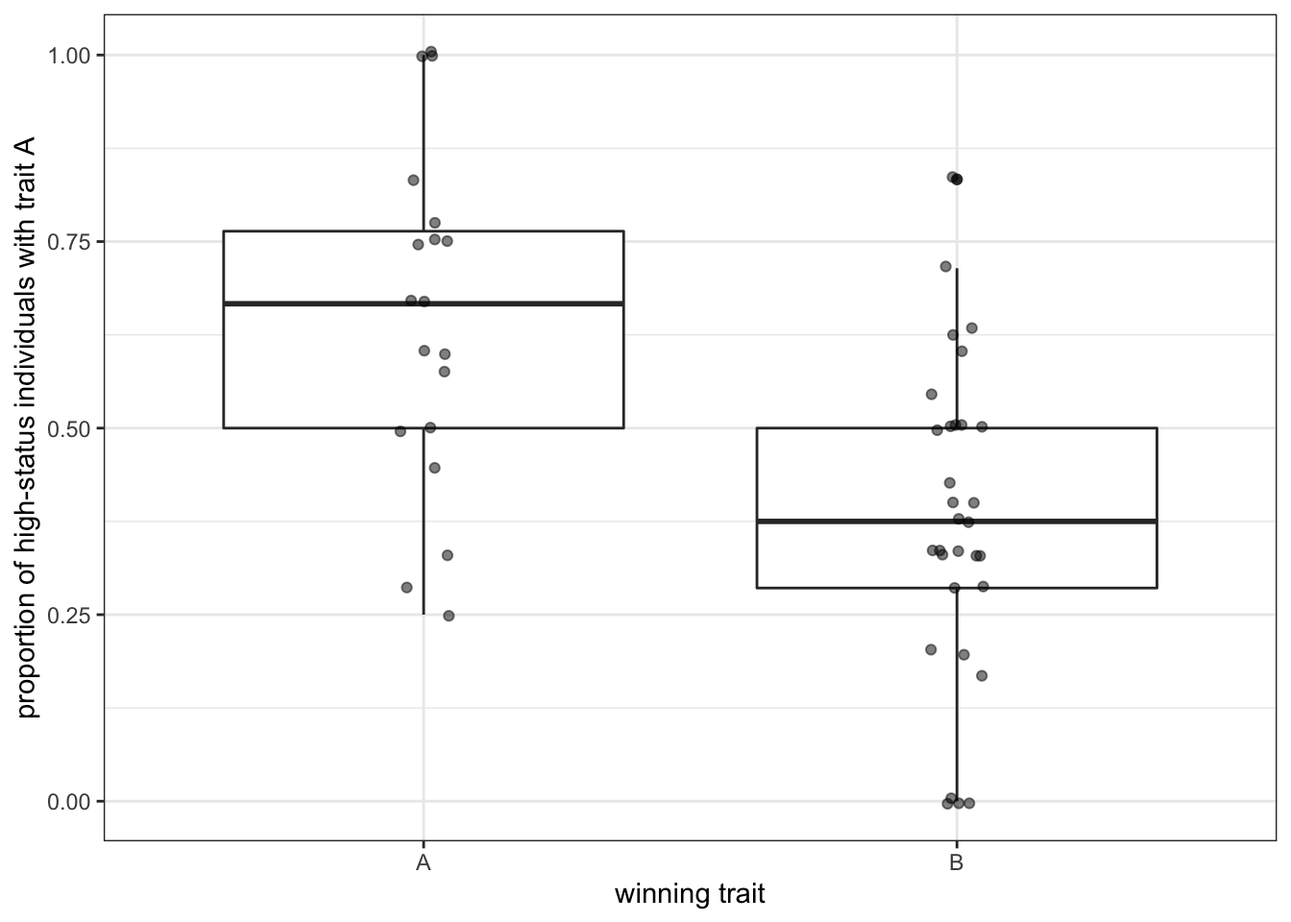
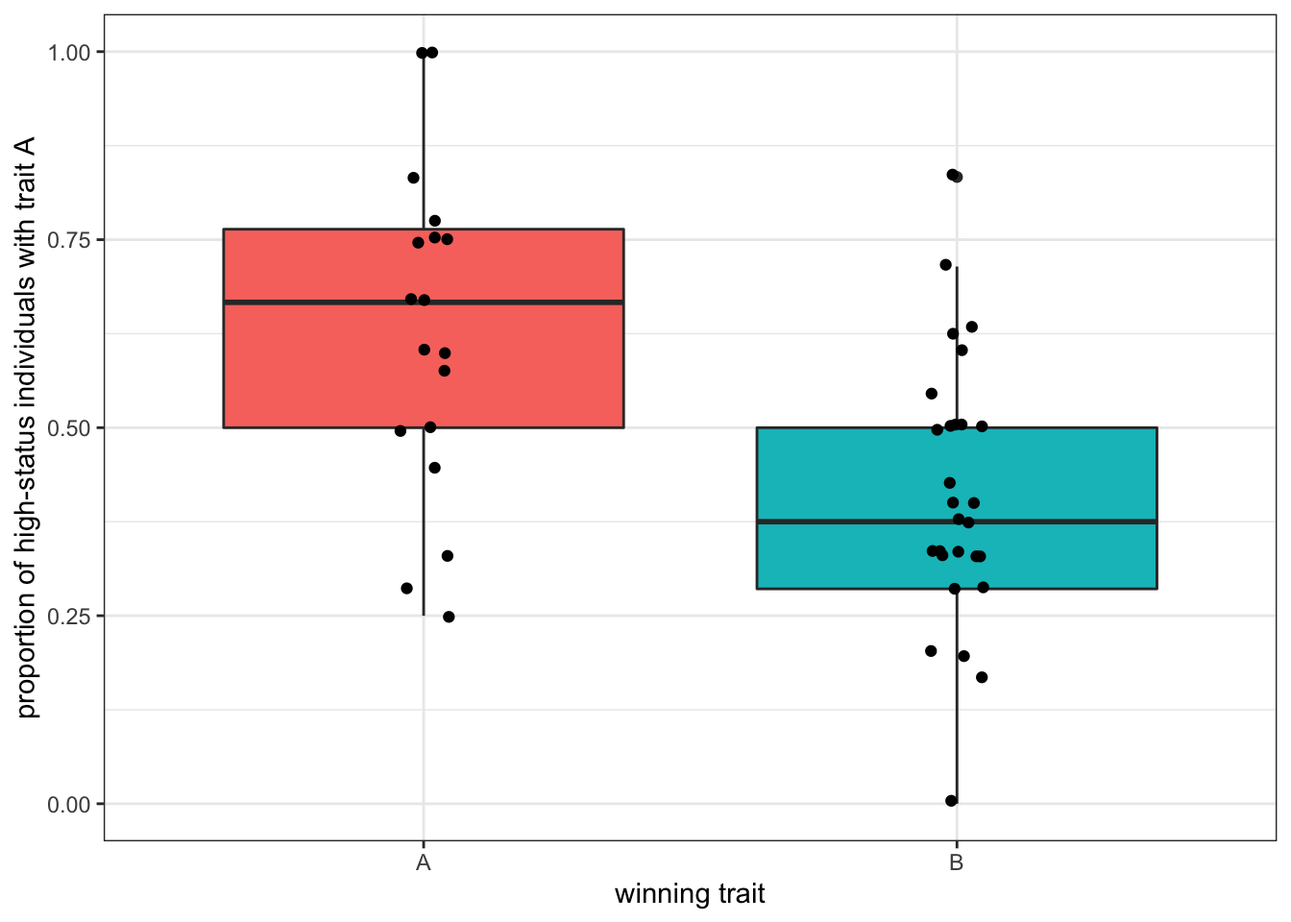
finsihed chapter 5

diff --git a/_book/biased-transmission-indirect-bias-demonstrator.html b/_book/biased-transmission-indirect-bias-demonstrator.html
@@ -4,11 +4,11 @@
 
   <meta charset="utf-8" />
   <meta http-equiv="X-UA-Compatible" content="IE=edge" />
-  <title>5 Biased transmission (indirect bias: demonstrator) | Individual-based models of cultural evolution</title>
+  <title>4 Biased transmission (indirect bias: demonstrator) | Individual-based models of cultural evolution</title>
   <meta name="description" content="A minimal working structure for the book" />
   <meta name="generator" content="bookdown 0.11 and GitBook 2.6.7" />
 
-  <meta property="og:title" content="5 Biased transmission (indirect bias: demonstrator) | Individual-based models of cultural evolution" />
+  <meta property="og:title" content="4 Biased transmission (indirect bias: demonstrator) | Individual-based models of cultural evolution" />
   <meta property="og:type" content="book" />
   
   
@@ -16,7 +16,7 @@
   
 
   <meta name="twitter:card" content="summary" />
-  <meta name="twitter:title" content="5 Biased transmission (indirect bias: demonstrator) | Individual-based models of cultural evolution" />
+  <meta name="twitter:title" content="4 Biased transmission (indirect bias: demonstrator) | Individual-based models of cultural evolution" />
   
   <meta name="twitter:description" content="A minimal working structure for the book" />
   
@@ -106,38 +106,39 @@ code > span.in { color: #60a0b0; font-weight: bold; font-style: italic; } /* Inf
 
 <li class="divider"></li>
 <li class="chapter" data-level="" data-path="index.html"><a href="index.html"><i class="fa fa-check"></i>Introduction</a></li>
-<li class="part"><span><b>Basics</b></span></li>
-<li class="chapter" data-level="1" data-path="unbiased-transmission.html"><a href="unbiased-transmission.html"><i class="fa fa-check"></i><b>1</b> Unbiased transmission</a><ul>
-<li class="chapter" data-level="1.1" data-path="unbiased-transmission.html"><a href="unbiased-transmission.html#initialising-the-simulation"><i class="fa fa-check"></i><b>1.1</b> Initialising the simulation</a></li>
-<li class="chapter" data-level="1.2" data-path="unbiased-transmission.html"><a href="unbiased-transmission.html#execute-generation-turn-over-many-times"><i class="fa fa-check"></i><b>1.2</b> Execute generation turn-over many times</a></li>
-<li class="chapter" data-level="1.3" data-path="unbiased-transmission.html"><a href="unbiased-transmission.html#plotting-the-model-results"><i class="fa fa-check"></i><b>1.3</b> Plotting the model results</a></li>
-<li class="chapter" data-level="1.4" data-path="unbiased-transmission.html"><a href="unbiased-transmission.html#write-a-function-to-wrap-the-model-code"><i class="fa fa-check"></i><b>1.4</b> Write a function to wrap the model code</a></li>
-<li class="chapter" data-level="1.5" data-path="unbiased-transmission.html"><a href="unbiased-transmission.html#run-several-independent-simulations-and-plot-their-results"><i class="fa fa-check"></i><b>1.5</b> Run several independent simulations and plot their results</a></li>
-<li class="chapter" data-level="1.6" data-path="unbiased-transmission.html"><a href="unbiased-transmission.html#varying-initial-conditions"><i class="fa fa-check"></i><b>1.6</b> Varying initial conditions</a></li>
-<li class="chapter" data-level="1.7" data-path="unbiased-transmission.html"><a href="unbiased-transmission.html#summary-of-the-model"><i class="fa fa-check"></i><b>1.7</b> Summary of the model</a></li>
-<li class="chapter" data-level="1.8" data-path="unbiased-transmission.html"><a href="unbiased-transmission.html#analytical-appendix"><i class="fa fa-check"></i><b>1.8</b> Analytical appendix</a></li>
+<li class="part"><span><b>Basics</b></span><ul>
+<li class="chapter" data-level="0.1" data-path="index.html"><a href="index.html#initialising-the-simulation"><i class="fa fa-check"></i><b>0.1</b> Initialising the simulation</a></li>
+<li class="chapter" data-level="0.2" data-path="index.html"><a href="index.html#execute-generation-turn-over-many-times"><i class="fa fa-check"></i><b>0.2</b> Execute generation turn-over many times</a></li>
+<li class="chapter" data-level="0.3" data-path="index.html"><a href="index.html#plotting-the-model-results"><i class="fa fa-check"></i><b>0.3</b> Plotting the model results</a></li>
+<li class="chapter" data-level="0.4" data-path="index.html"><a href="index.html#write-a-function-to-wrap-the-model-code"><i class="fa fa-check"></i><b>0.4</b> Write a function to wrap the model code</a></li>
+<li class="chapter" data-level="0.5" data-path="index.html"><a href="index.html#run-several-independent-simulations-and-plot-their-results"><i class="fa fa-check"></i><b>0.5</b> Run several independent simulations and plot their results</a></li>
+<li class="chapter" data-level="0.6" data-path="index.html"><a href="index.html#varying-initial-conditions"><i class="fa fa-check"></i><b>0.6</b> Varying initial conditions</a></li>
+<li class="chapter" data-level="0.7" data-path="index.html"><a href="index.html#summary-of-the-model"><i class="fa fa-check"></i><b>0.7</b> Summary of the model</a></li>
+<li class="chapter" data-level="0.8" data-path="index.html"><a href="index.html#analytical-appendix"><i class="fa fa-check"></i><b>0.8</b> Analytical appendix</a></li>
 </ul></li>
-<li class="chapter" data-level="2" data-path="unbiased-and-biased-mutation.html"><a href="unbiased-and-biased-mutation.html"><i class="fa fa-check"></i><b>2</b> Unbiased and biased mutation</a><ul>
-<li class="chapter" data-level="2.1" data-path="unbiased-and-biased-mutation.html"><a href="unbiased-and-biased-mutation.html#unbiased-mutation"><i class="fa fa-check"></i><b>2.1</b> Unbiased mutation</a></li>
-<li class="chapter" data-level="2.2" data-path="unbiased-and-biased-mutation.html"><a href="unbiased-and-biased-mutation.html#biased-mutation"><i class="fa fa-check"></i><b>2.2</b> Biased mutation</a></li>
-<li class="chapter" data-level="2.3" data-path="unbiased-and-biased-mutation.html"><a href="unbiased-and-biased-mutation.html#summary-of-the-model-1"><i class="fa fa-check"></i><b>2.3</b> Summary of the model</a></li>
-<li class="chapter" data-level="2.4" data-path="unbiased-and-biased-mutation.html"><a href="unbiased-and-biased-mutation.html#analytical-appendix-1"><i class="fa fa-check"></i><b>2.4</b> Analytical appendix</a></li>
+<li class="chapter" data-level="1" data-path="unbiased-and-biased-mutation.html"><a href="unbiased-and-biased-mutation.html"><i class="fa fa-check"></i><b>1</b> Unbiased and biased mutation</a><ul>
+<li class="chapter" data-level="1.1" data-path="unbiased-and-biased-mutation.html"><a href="unbiased-and-biased-mutation.html#unbiased-mutation"><i class="fa fa-check"></i><b>1.1</b> Unbiased mutation</a></li>
+<li class="chapter" data-level="1.2" data-path="unbiased-and-biased-mutation.html"><a href="unbiased-and-biased-mutation.html#biased-mutation"><i class="fa fa-check"></i><b>1.2</b> Biased mutation</a></li>
+<li class="chapter" data-level="1.3" data-path="unbiased-and-biased-mutation.html"><a href="unbiased-and-biased-mutation.html#summary-of-the-model-1"><i class="fa fa-check"></i><b>1.3</b> Summary of the model</a></li>
+<li class="chapter" data-level="1.4" data-path="unbiased-and-biased-mutation.html"><a href="unbiased-and-biased-mutation.html#analytical-appendix-1"><i class="fa fa-check"></i><b>1.4</b> Analytical appendix</a></li>
 </ul></li>
-<li class="chapter" data-level="3" data-path="biased-transmission-direct-bias.html"><a href="biased-transmission-direct-bias.html"><i class="fa fa-check"></i><b>3</b> Biased transmission (direct bias)</a><ul>
-<li class="chapter" data-level="3.1" data-path="biased-transmission-direct-bias.html"><a href="biased-transmission-direct-bias.html#strenght-of-selection"><i class="fa fa-check"></i><b>3.1</b> Strenght of selection</a></li>
-<li class="chapter" data-level="3.2" data-path="biased-transmission-direct-bias.html"><a href="biased-transmission-direct-bias.html#summary-of-the-model-2"><i class="fa fa-check"></i><b>3.2</b> Summary of the model</a></li>
-<li class="chapter" data-level="3.3" data-path="biased-transmission-direct-bias.html"><a href="biased-transmission-direct-bias.html#analytical-appendix-2"><i class="fa fa-check"></i><b>3.3</b> Analytical appendix</a></li>
+<li class="chapter" data-level="2" data-path="biased-transmission-direct-bias.html"><a href="biased-transmission-direct-bias.html"><i class="fa fa-check"></i><b>2</b> Biased transmission (direct bias)</a><ul>
+<li class="chapter" data-level="2.1" data-path="biased-transmission-direct-bias.html"><a href="biased-transmission-direct-bias.html#strenght-of-selection"><i class="fa fa-check"></i><b>2.1</b> Strenght of selection</a></li>
+<li class="chapter" data-level="2.2" data-path="biased-transmission-direct-bias.html"><a href="biased-transmission-direct-bias.html#summary-of-the-model-2"><i class="fa fa-check"></i><b>2.2</b> Summary of the model</a></li>
+<li class="chapter" data-level="2.3" data-path="biased-transmission-direct-bias.html"><a href="biased-transmission-direct-bias.html#analytical-appendix-2"><i class="fa fa-check"></i><b>2.3</b> Analytical appendix</a></li>
 </ul></li>
-<li class="chapter" data-level="4" data-path="biased-transmission-indirect-bias-frequency.html"><a href="biased-transmission-indirect-bias-frequency.html"><i class="fa fa-check"></i><b>4</b> Biased transmission (indirect bias: frequency)</a><ul>
-<li class="chapter" data-level="4.1" data-path="biased-transmission-indirect-bias-frequency.html"><a href="biased-transmission-indirect-bias-frequency.html#the-logic-of-conformity"><i class="fa fa-check"></i><b>4.1</b> The logic of conformity</a></li>
-<li class="chapter" data-level="4.2" data-path="biased-transmission-indirect-bias-frequency.html"><a href="biased-transmission-indirect-bias-frequency.html#testing-conformist-transmission"><i class="fa fa-check"></i><b>4.2</b> Testing conformist transmission</a></li>
-<li class="chapter" data-level="4.3" data-path="biased-transmission-indirect-bias-frequency.html"><a href="biased-transmission-indirect-bias-frequency.html#summary-of-the-model-3"><i class="fa fa-check"></i><b>4.3</b> Summary of the model</a></li>
-<li class="chapter" data-level="4.4" data-path="biased-transmission-indirect-bias-frequency.html"><a href="biased-transmission-indirect-bias-frequency.html#analytic-appendix"><i class="fa fa-check"></i><b>4.4</b> Analytic appendix</a></li>
+<li class="chapter" data-level="3" data-path="biased-transmission-indirect-bias-frequency.html"><a href="biased-transmission-indirect-bias-frequency.html"><i class="fa fa-check"></i><b>3</b> Biased transmission (indirect bias: frequency)</a><ul>
+<li class="chapter" data-level="3.1" data-path="biased-transmission-indirect-bias-frequency.html"><a href="biased-transmission-indirect-bias-frequency.html#the-logic-of-conformity"><i class="fa fa-check"></i><b>3.1</b> The logic of conformity</a></li>
+<li class="chapter" data-level="3.2" data-path="biased-transmission-indirect-bias-frequency.html"><a href="biased-transmission-indirect-bias-frequency.html#testing-conformist-transmission"><i class="fa fa-check"></i><b>3.2</b> Testing conformist transmission</a></li>
+<li class="chapter" data-level="3.3" data-path="biased-transmission-indirect-bias-frequency.html"><a href="biased-transmission-indirect-bias-frequency.html#summary-of-the-model-3"><i class="fa fa-check"></i><b>3.3</b> Summary of the model</a></li>
+<li class="chapter" data-level="3.4" data-path="biased-transmission-indirect-bias-frequency.html"><a href="biased-transmission-indirect-bias-frequency.html#analytic-appendix"><i class="fa fa-check"></i><b>3.4</b> Analytic appendix</a></li>
 </ul></li>
-<li class="chapter" data-level="5" data-path="biased-transmission-indirect-bias-demonstrator.html"><a href="biased-transmission-indirect-bias-demonstrator.html"><i class="fa fa-check"></i><b>5</b> Biased transmission (indirect bias: demonstrator)</a><ul>
-<li class="chapter" data-level="5.1" data-path="biased-transmission-indirect-bias-demonstrator.html"><a href="biased-transmission-indirect-bias-demonstrator.html#a-simple-demonstrator-bias"><i class="fa fa-check"></i><b>5.1</b> A simple demonstrator bias</a></li>
-<li class="chapter" data-level="5.2" data-path="biased-transmission-indirect-bias-demonstrator.html"><a href="biased-transmission-indirect-bias-demonstrator.html#predicting-the-winning-trait"><i class="fa fa-check"></i><b>5.2</b> Predicting the winning trait</a></li>
-<li class="chapter" data-level="5.3" data-path="biased-transmission-indirect-bias-demonstrator.html"><a href="biased-transmission-indirect-bias-demonstrator.html#summary-of-the-model-4"><i class="fa fa-check"></i><b>5.3</b> Summary of the model</a></li>
+<li class="chapter" data-level="4" data-path="biased-transmission-indirect-bias-demonstrator.html"><a href="biased-transmission-indirect-bias-demonstrator.html"><i class="fa fa-check"></i><b>4</b> Biased transmission (indirect bias: demonstrator)</a><ul>
+<li class="chapter" data-level="4.1" data-path="biased-transmission-indirect-bias-demonstrator.html"><a href="biased-transmission-indirect-bias-demonstrator.html#a-simple-demonstrator-bias"><i class="fa fa-check"></i><b>4.1</b> A simple demonstrator bias</a></li>
+<li class="chapter" data-level="4.2" data-path="biased-transmission-indirect-bias-demonstrator.html"><a href="biased-transmission-indirect-bias-demonstrator.html#predicting-the-winning-trait"><i class="fa fa-check"></i><b>4.2</b> Predicting the ‘winning’ trait</a></li>
+<li class="chapter" data-level="4.3" data-path="biased-transmission-indirect-bias-demonstrator.html"><a href="biased-transmission-indirect-bias-demonstrator.html#summary-of-the-model-4"><i class="fa fa-check"></i><b>4.3</b> Summary of the model</a></li>
+<li class="chapter" data-level="4.4" data-path="biased-transmission-indirect-bias-demonstrator.html"><a href="biased-transmission-indirect-bias-demonstrator.html#analytical-appendix-3"><i class="fa fa-check"></i><b>4.4</b> Analytical appendix</a></li>
+<li class="chapter" data-level="4.5" data-path="biased-transmission-indirect-bias-demonstrator.html"><a href="biased-transmission-indirect-bias-demonstrator.html#further-readings"><i class="fa fa-check"></i><b>4.5</b> Further readings</a></li>
 </ul></li>
 <li class="divider"></li>
 <li><a href="https://github.com/rstudio/bookdown" target="blank">Published with bookdown</a></li>
@@ -160,14 +161,22 @@ code > span.in { color: #60a0b0; font-weight: bold; font-style: italic; } /* Inf
 
             <section class="normal" id="section-">
 <div id="biased-transmission-indirect-bias-demonstrator" class="section level1">
-<h1><span class="header-section-number">5</span> Biased transmission (indirect bias: demonstrator)</h1>
+<h1><span class="header-section-number">4</span> Biased transmission (indirect bias: demonstrator)</h1>
 <p>In the two previous chapters, we started to examine biased transmission, both based on the characteristics of the traits (or <a href="biased-transmission-direct-bias.html#biased-transmission-direct-bias">direct bias</a>) and on the characteristics of the population. The latter can result from taking into account the frequency of a trait (as we did for <a href="biased-transmission-indirect-bias-frequency.html#biased-transmission-indirect-bias-frequency">conformity</a>) or from taking into account specific features of the demonstrators, which we will look at in this chapter (demonstrator bias is also called ‘model bias’ in cultural evolution).</p>
 <p>Whereas the simulations we realised previously are fairly standard, indirect demonstrator-based biased transmission can be implemented in several different ways. Demonstrator biases can result when individuals decide whether to copy or not by taking into account any features of the demonstrators, as long as it is not directly tied to the traits. The most studied demonstrator bias is prestige bias, where individuals are more likely to copy from demonstrators that are considered more ‘prestigious’, for example because other individuals show deference to them. Alternatively, individuals can copy the demonstrators that are more successful, independently from how others judge them, or they can copy individuals that are more similar to them, or older (or younger), and so on. The crux is that the decision is not directly linked to the cultural trait itself.</p>
 <div id="a-simple-demonstrator-bias" class="section level2">
-<h2><span class="header-section-number">5.1</span> A simple demonstrator bias</h2>
-<p>To implement a simple version of demonstrator-biased cultural transmission, we first need to assume that there are some intrinsic differences in the population. Up until now, our populations were described only by the traits they possessed. We now want that individuals have a feature by which some of them can be distinguished from others, and, as a consequence, being more liked to be copied. We can call this feature ‘status’. An individual’s status is a binary variable that could stand for whether they are prestigious or not, old (young) or not (assuming that the time frame of the simulations is sufficienlty short) or any other features that do not change, and that other individuals can use to decide whether to copy from them or not. We can have a parameter <span class="math inline">\(p_s\)</span> that determines the probability an individual have an high or a low status.</p>
-<div class="sourceCode"><pre class="sourceCode r"><code class="sourceCode r"><span class="kw">library</span>(tidyverse)
-<span class="kw">set.seed</span>(<span class="dv">111</span>)
+<h2><span class="header-section-number">4.1</span> A simple demonstrator bias</h2>
+<p>To implement a simple version of demonstrator-biased cultural transmission, we first need to assume that there are some intrinsic differences in the population. Up until now, our populations were described only by the traits they possessed. We now want that individuals have a feature by which some of them can be distinguished from others, and, as a consequence, being more liked to be copied. We can call this feature ‘status’. An individual’s status is a binary variable that could stand for whether they are prestigious or not, old (young) or not (assuming that the time frame of the simulations is sufficiently short) or any other features that do not change, and that other individuals can use to decide whether to copy from them or not. We can have a parameter <span class="math inline">\(p_s\)</span> that determines the probability an individual have an high or a low status.</p>
+<div class="sourceCode"><pre class="sourceCode r"><code class="sourceCode r"><span class="kw">library</span>(tidyverse)</code></pre></div>
+<pre><code>## ── Attaching packages ───────────────────────────────────────────────────────────────────────────────────────────────────────────── tidyverse 1.2.1 ──</code></pre>
+<pre><code>## ✔ ggplot2 3.2.1     ✔ purrr   0.3.2
+## ✔ tibble  2.1.3     ✔ dplyr   0.8.1
+## ✔ tidyr   0.8.3     ✔ stringr 1.4.0
+## ✔ readr   1.3.1     ✔ forcats 0.4.0</code></pre>
+<pre><code>## ── Conflicts ──────────────────────────────────────────────────────────────────────────────────────────────────────────────── tidyverse_conflicts() ──
+## ✖ dplyr::filter() masks stats::filter()
+## ✖ dplyr::lag()    masks stats::lag()</code></pre>
+<div class="sourceCode"><pre class="sourceCode r"><code class="sourceCode r"><span class="kw">set.seed</span>(<span class="dv">111</span>)
 
 N &lt;-<span class="st"> </span><span class="dv">100</span>
 p_<span class="dv">0</span> &lt;-<span class="st"> </span><span class="fl">0.5</span>
@@ -192,7 +201,7 @@ population &lt;-<span class="st"> </span><span class="kw">tibble</span>(<span cl
 ## 10 B     high  
 ## # … with 90 more rows</code></pre>
 <p>With <span class="math inline">\(p_s=0.05\)</span> around 5 individuals in a population of 100 will have high status. In this specific case, one of them is individual 10, so it will be one of the individuals that will be likely to be copied more from.</p>
-<p>How should the status used to decide whether to copy or not? Again, there are various possibilities. An intuitive way is to assume that the probabilities to pick high-status and low-status individuals as demonstrators are different. So far, when using the function <code>sample</code> to select demonstrators, we did not include any specific probability, so that each individual of the previous generation had the same likelihood to be selected. However, we can pass to the function a vector of probabilites to weight the choice. We can assume that the probability to select high status individuals as demonstrators is always equal to 1 (as in unbiased transmission), but the probability to select low-status individuals is encoded by a further parameter, <span class="math inline">\(p_\text{low}\)</span>: when <span class="math inline">\(p_\text{low}=1\)</span>, the simulations correspond to unbiased transmission, as everybody has the same probability to be chosen, while with <span class="math inline">\(p_\text{low}=0\)</span>, there is a strict model bias, where only high-status individuals are copied.</p>
+<p>How should the status used to decide whether to copy or not? Again, there are various possibilities. An intuitive way is to assume that the probabilities to pick high-status and low-status individuals as demonstrators are different. So far, when using the function <code>sample()</code> to select demonstrators, we did not include any specific probability, so that each individual of the previous generation had the same likelihood to be selected. However, we can pass to the function a vector of probabilities to weight the choice. We can assume that the probability to select high status individuals as demonstrators is always equal to 1, but the probability to select low-status individuals is encoded by a further parameter, <span class="math inline">\(p_\text{low}\)</span>: when <span class="math inline">\(p_\text{low}=1\)</span>, the simulations correspond to unbiased transmission, as everybody has the same probability to be chosen, while with <span class="math inline">\(p_\text{low}=0\)</span>, there is a strict model bias, where only high-status individuals can be selected as demonstrators.</p>
 <p>To implement this, we first store in <code>p_demonstrator</code> the probabilities to be copied for each member of the population:</p>
 <div class="sourceCode"><pre class="sourceCode r"><code class="sourceCode r">p_low &lt;-<span class="st"> </span><span class="fl">0.01</span>
 
@@ -240,25 +249,27 @@ p_demonstrator[population<span class="op">$</span>status <span class="op">==</sp
 <div class="sourceCode"><pre class="sourceCode r"><code class="sourceCode r">data_model &lt;-<span class="st"> </span><span class="kw">biased_transmission_demonstrator</span>(<span class="dt">N =</span> <span class="dv">100</span>, <span class="dt">p_s =</span> <span class="fl">0.05</span>, <span class="dt">p_low=</span><span class="fl">0.0001</span>, <span class="dt">p_0 =</span> <span class="fl">0.5</span>, <span class="dt">t_max =</span> <span class="dv">50</span>, <span class="dt">r_max =</span> <span class="dv">5</span>)
 <span class="kw">plot_multiple_runs</span>(data_model)</code></pre></div>
 <p><img src="_main_files/figure-html/5.7-1.png" width="672" /></p>
-<p>The results are similar to what we saw in the <a href="biased-transmission-indirect-bias-frequency.html#biased-transmission-indirect-bias-frequency">previous chapter</a>) for conformity: one of the two traits quickly reaches fixation. In the case of conformity, however, the trait reaching fixation was the one that happened to have, because of the random initialisation, a slightly higher frequency at the beginning. With a demonstrator bias, this is not the case. The succesfull trait is the one that, irrispectively from its initial frequency, happens to be carried by high-status individuals.</p>
-<p>From this perspective, an indirect, demonstrator-based, bias is more similar to unbiased transmission. If you remember from the <a href="unbiased-transmission.html#unbiased-transmission">first chapter</a>, simulations with unbiased transmission also ended up with one trait reaching fixation with small populations (<span class="math inline">\(N=100\)</span>), but with bigger ones (<span class="math inline">\(N=10000\)</span>) the frequencies of the two traits remained around <span class="math inline">\(p=0.5\)</span>. What does it happen with a demonstrator bias?</p>
+<p>The results are similar to what we saw in the <a href="biased-transmission-indirect-bias-frequency.html#biased-transmission-indirect-bias-frequency">previous chapter</a> for conformity: one of the two traits quickly reaches fixation. In the case of conformity, however, the trait reaching fixation was the one that happened to have a slightly higher frequency at the beginning, because of the random initialisation. With a demonstrator bias, this is not the case.</p>
+<p>From this perspective, an indirect, demonstrator-based, bias is more similar to unbiased transmission. If you remember from the [first chapter][Unbiased transmission], simulations with unbiased transmission also ended up with one trait reaching fixation with small populations (<span class="math inline">\(N=100\)</span>), but with bigger ones (<span class="math inline">\(N=10000\)</span>) the frequencies of the two traits remained around <span class="math inline">\(p=0.5\)</span>. What does it happen with a demonstrator bias?</p>
 <div class="sourceCode"><pre class="sourceCode r"><code class="sourceCode r">data_model &lt;-<span class="st"> </span><span class="kw">biased_transmission_demonstrator</span>(<span class="dt">N =</span> <span class="dv">10000</span>, <span class="dt">p_s =</span> <span class="fl">0.005</span>, <span class="dt">p_low=</span><span class="fl">0.0001</span>, <span class="dt">p_0 =</span> <span class="fl">0.5</span>, <span class="dt">t_max =</span> <span class="dv">200</span>, <span class="dt">r_max =</span> <span class="dv">5</span>)
 <span class="kw">plot_multiple_runs</span>(data_model)</code></pre></div>
 <p><img src="_main_files/figure-html/5.8-1.png" width="672" /></p>
-<p>Even with <span class="math inline">\(N=10000\)</span>, if the number of high-status individuals is sufficiently low, as in this case (<span class="math inline">\(p_s=0.005\)</span> means that, on average, 50 individuals are high-statuts in each run), traits reach fixation. By reducing the pool of demonstrators, demonstrator-based bias makes drift more important for the overall dynamics. You can experiment with different values of <span class="math inline">\(p_s\)</span> and <span class="math inline">\(p_low\)</span>. How big can be the pool of high-stats demonstrators before the dynamics become undistinhishable from unbiased transmission.</p>
+<p>Even with <span class="math inline">\(N=10000\)</span>, if the number of high-status individuals is sufficiently low, as in this case (<span class="math inline">\(p_s=0.005\)</span> means that, on average, 50 individuals are high-status in each run), traits reach fixation. By reducing the pool of demonstrators, demonstrator-based bias makes drift more important for the overall dynamics. You can experiment with different values of <span class="math inline">\(p_s\)</span> and <span class="math inline">\(p_\text{low}\)</span>. How big can be the pool of high-status demonstrators before the dynamics become indistinguishable from unbiased transmission?</p>
 </div>
 <div id="predicting-the-winning-trait" class="section level2">
-<h2><span class="header-section-number">5.2</span> Predicting the winning trait</h2>
+<h2><span class="header-section-number">4.2</span> Predicting the ‘winning’ trait</h2>
+<p>With conformity, as just mentioned, the trait that reaches fixation is the one starting in majority, while with unbiased copying it can not be predicted at the beginning of the simulation. With a demonstrator bias, a reasonable guess would be that the ‘winning’ trait is the one that is, at the beginning, most common among the high-status individuals. Can we check this intuition with our model?</p>
+<p>Currently the output we obtain from the simulations is not suitable to this purpose. On the one hand, we do not have a piece of information that we need, i.e. the proportion of high-status individuals having one of the two traits when the population is initialised. On the other, we have much information that we do not need, such as the frequency of the two traits at each time step (we just need to know which traits reach fixation). we can rewrite the function and only changing the <code>output</code> tibble to suit our needs.</p>
 <div class="sourceCode"><pre class="sourceCode r"><code class="sourceCode r">biased_transmission_demonstrator_<span class="dv">2</span> &lt;-<span class="st"> </span><span class="cf">function</span>(N, p_<span class="dv">0</span>, p_s, p_low, t_max, r_max) {
   
-  output &lt;-<span class="st"> </span><span class="kw">tibble</span>(<span class="dt">status_A =</span> <span class="kw">rep</span>(<span class="ot">NA</span>, r_max), <span class="dt">p =</span> <span class="kw">rep</span>(<span class="ot">NA</span>, r_max), <span class="dt">run =</span> <span class="kw">as.factor</span>(<span class="kw">rep</span>(<span class="dv">1</span><span class="op">:</span>r_max)))
+  output &lt;-<span class="st"> </span><span class="kw">tibble</span>(<span class="dt">status_A =</span> <span class="kw">rep</span>(<span class="ot">NA</span>, r_max), <span class="dt">p =</span> <span class="kw">rep</span>(<span class="ot">NA</span>, r_max))
   
   <span class="cf">for</span> (r <span class="cf">in</span> <span class="dv">1</span><span class="op">:</span>r_max) {
     
     population &lt;-<span class="st"> </span><span class="kw">tibble</span>(<span class="dt">trait =</span> <span class="kw">sample</span>(<span class="kw">c</span>(<span class="st">&quot;A&quot;</span>, <span class="st">&quot;B&quot;</span>), N, <span class="dt">replace =</span> <span class="ot">TRUE</span>, <span class="dt">prob =</span> <span class="kw">c</span>(p_<span class="dv">0</span>, <span class="dv">1</span> <span class="op">-</span><span class="st"> </span>p_<span class="dv">0</span>)),
                      <span class="dt">status =</span> <span class="kw">sample</span>(<span class="kw">c</span>(<span class="st">&quot;high&quot;</span>, <span class="st">&quot;low&quot;</span>), N, <span class="dt">replace =</span> <span class="ot">TRUE</span>, <span class="dt">prob =</span> <span class="kw">c</span>(p_s, <span class="dv">1</span> <span class="op">-</span><span class="st"> </span>p_s))) 
     
-    output[output<span class="op">$</span>run <span class="op">==</span><span class="st"> </span>r, ]<span class="op">$</span>status_A &lt;-<span class="st"> </span><span class="kw">sum</span>(population<span class="op">$</span>status <span class="op">==</span><span class="st"> &quot;high&quot;</span> <span class="op">&amp;</span><span class="st"> </span>population<span class="op">$</span>trait <span class="op">==</span><span class="st"> &quot;A&quot;</span>) <span class="op">/</span><span class="st"> </span>
+    output[r, ]<span class="op">$</span>status_A &lt;-<span class="st"> </span><span class="kw">sum</span>(population<span class="op">$</span>status <span class="op">==</span><span class="st"> &quot;high&quot;</span> <span class="op">&amp;</span><span class="st"> </span>population<span class="op">$</span>trait <span class="op">==</span><span class="st"> &quot;A&quot;</span>) <span class="op">/</span><span class="st"> </span>
 <span class="st">      </span><span class="kw">sum</span>(population<span class="op">$</span>status <span class="op">==</span><span class="st"> &quot;high&quot;</span>)
     
     <span class="cf">for</span> (t <span class="cf">in</span> <span class="dv">2</span><span class="op">:</span>t_max) {
@@ -274,39 +285,75 @@ p_demonstrator[population<span class="op">$</span>status <span class="op">==</sp
       
       }
     }
-  output[output<span class="op">$</span>run <span class="op">==</span><span class="st"> </span>r, ]<span class="op">$</span>p &lt;-<span class="st"> </span><span class="kw">sum</span>(population<span class="op">$</span>trait <span class="op">==</span><span class="st"> &quot;A&quot;</span>) <span class="op">/</span><span class="st"> </span>N     
+  output[r, ]<span class="op">$</span>p &lt;-<span class="st"> </span><span class="kw">sum</span>(population<span class="op">$</span>trait <span class="op">==</span><span class="st"> &quot;A&quot;</span>) <span class="op">/</span><span class="st"> </span>N     
   }
   output <span class="co"># export data from function</span>
 }</code></pre></div>
-<div class="sourceCode"><pre class="sourceCode r"><code class="sourceCode r">data_model &lt;-<span class="st"> </span><span class="kw">biased_transmission_demonstrator_2</span>(<span class="dt">N =</span> <span class="dv">100</span>, <span class="dt">p_s =</span> <span class="fl">0.05</span>, <span class="dt">p_low=</span><span class="fl">0.0001</span>, <span class="dt">p_0 =</span> <span class="fl">0.5</span>, <span class="dt">t_max =</span> <span class="dv">50</span>, <span class="dt">r_max =</span> <span class="dv">50</span>)</code></pre></div>
-<p>In this case, we do not write a function</p>
+<p>Let’s run the new function, for 50 runs (change <span class="math inline">\(r_\text{max}=50\)</span>) so to have more data points, and inspect the output.</p>
+<div class="sourceCode"><pre class="sourceCode r"><code class="sourceCode r">data_model &lt;-<span class="st"> </span><span class="kw">biased_transmission_demonstrator_2</span>(<span class="dt">N =</span> <span class="dv">100</span>, <span class="dt">p_s =</span> <span class="fl">0.05</span>, <span class="dt">p_low=</span><span class="fl">0.0001</span>, <span class="dt">p_0 =</span> <span class="fl">0.5</span>, <span class="dt">t_max =</span> <span class="dv">50</span>, <span class="dt">r_max =</span> <span class="dv">50</span>)
+data_model</code></pre></div>
+<pre><code>## # A tibble: 50 x 2
+##    status_A     p
+##       &lt;dbl&gt; &lt;dbl&gt;
+##  1    0.75      1
+##  2    0.333     0
+##  3    0.4       0
+##  4    0         0
+##  5    0.333     0
+##  6    0.5       0
+##  7    0.5       0
+##  8    0         0
+##  9    0.333     0
+## 10    0.286     0
+## # … with 40 more rows</code></pre>
+<p>Each line of the output is a run of the simulation. In the first run, for example, 75% of high-status individuals had the trait <span class="math inline">\(A\)</span> at the beginning, and the frequency of the trait <span class="math inline">\(A\)</span> at the end of the simulation was 1, meaning it reached fixation. Generally, from a cursory inspection to the output, it seems our guess was correct. But let’s visualise all the data.</p>
+<p>We want to know how the initial proportion of high-status individuals is related to the two possible outcomes (trait <span class="math inline">\(A\)</span> reaches fixation and trait <span class="math inline">\(B\)</span> reaches fixation). A convenient way is to use a boxplot. In the code below, we first eliminate the runs where the traits did not reach fixation (in case they exist) using the new function <code>filter()</code>, and, for clarity, we assign the trait name (<span class="math inline">\(A\)</span> or <span class="math inline">\(B\)</span>) to each run according to which trait reached fixation. We can then plot our output (in this case, we do not write a function on purpose). The main novelties in the code are the new ggplot ‘geoms’ <code>geom_boxplot()</code> and <code>geom_jitter()</code>. Whereas boxplots are useful to detect aggregate information on our simulations, <code>geom_jitter()</code> plots also the single data points, so we can have a better idea on how the proportions of high-status individuals are distributed in the various runs. We could have done this with our usual <code>geom_point()</code>, but <code>geom_jitter()</code> scatters randomly (at a distance specified by the parameter <code>width</code>) the points in the plot. This allows to avoid the overlapping of individual data points (known as overplotting).</p>
 <div class="sourceCode"><pre class="sourceCode r"><code class="sourceCode r">data_model &lt;-<span class="st"> </span><span class="kw">filter</span>(data_model, p <span class="op">==</span><span class="st"> </span><span class="dv">1</span> <span class="op">|</span><span class="st"> </span>p <span class="op">==</span><span class="st"> </span><span class="dv">0</span>)
-data_model[data_model<span class="op">$</span>p<span class="op">==</span><span class="dv">1</span>,]<span class="op">$</span>p &lt;-<span class="st"> &quot;A&quot;</span>
-data_model[data_model<span class="op">$</span>p<span class="op">==</span><span class="dv">0</span>,]<span class="op">$</span>p &lt;-<span class="st"> &quot;B&quot;</span>
+data_model[data_model<span class="op">$</span>p<span class="op">==</span><span class="dv">1</span>, ]<span class="op">$</span>p &lt;-<span class="st"> &quot;A&quot;</span>
+data_model[data_model<span class="op">$</span>p<span class="op">==</span><span class="dv">0</span>, ]<span class="op">$</span>p &lt;-<span class="st"> &quot;B&quot;</span>
 
-<span class="kw">ggplot</span>(<span class="dt">data =</span> data_model, <span class="kw">aes</span>( <span class="dt">x =</span> p, <span class="dt">y =</span> status_A)) <span class="op">+</span>
+<span class="kw">ggplot</span>(<span class="dt">data =</span> data_model, <span class="kw">aes</span>(<span class="dt">x =</span> p, <span class="dt">y =</span> status_A, <span class="dt">fill =</span> p)) <span class="op">+</span>
 <span class="st">  </span><span class="kw">geom_boxplot</span>() <span class="op">+</span>
-<span class="st">  </span><span class="kw">geom_jitter</span>(<span class="dt">width=</span><span class="fl">0.05</span>, <span class="dt">alpha=</span><span class="fl">0.5</span>) <span class="op">+</span>
+<span class="st">  </span><span class="kw">geom_jitter</span>(<span class="dt">width =</span> <span class="fl">0.05</span>) <span class="op">+</span>
 <span class="st">  </span><span class="kw">labs</span>(<span class="dt">y =</span> <span class="st">&quot;proportion of high-status individuals with trait A&quot;</span>, 
        <span class="dt">x =</span> <span class="st">&quot;winning trait&quot;</span>) <span class="op">+</span>
-<span class="st">  </span><span class="kw">theme_bw</span>()</code></pre></div>
+<span class="st">  </span><span class="kw">ylim</span>(<span class="kw">c</span>(<span class="dv">0</span>,<span class="dv">1</span>)) <span class="op">+</span>
+<span class="st">  </span><span class="kw">theme_bw</span>() <span class="op">+</span>
+<span class="st">  </span><span class="kw">theme</span>(<span class="dt">legend.position =</span> <span class="st">&quot;none&quot;</span>) </code></pre></div>
+<pre><code>## Warning: Removed 4 rows containing missing values (geom_point).</code></pre>
 <p><img src="_main_files/figure-html/5.11-1.png" width="672" /></p>
-<div class="sourceCode"><pre class="sourceCode r"><code class="sourceCode r">data_model &lt;-<span class="st"> </span><span class="kw">biased_transmission_demonstrator_2</span>(<span class="dt">N =</span> <span class="dv">10000</span>, <span class="dt">p_s =</span> <span class="fl">0.005</span>, <span class="dt">p_low=</span><span class="fl">0.0001</span>, <span class="dt">p_0 =</span> <span class="fl">0.5</span>, <span class="dt">t_max =</span> <span class="dv">200</span>, <span class="dt">r_max =</span> <span class="dv">50</span>)</code></pre></div>
-<div class="sourceCode"><pre class="sourceCode r"><code class="sourceCode r">data_model &lt;-<span class="st"> </span><span class="kw">filter</span>(data_model, p <span class="op">==</span><span class="st"> </span><span class="dv">1</span> <span class="op">|</span><span class="st"> </span>p <span class="op">==</span><span class="st"> </span><span class="dv">0</span>)
-data_model[data_model<span class="op">$</span>p<span class="op">==</span><span class="dv">1</span>,]<span class="op">$</span>p &lt;-<span class="st"> &quot;A&quot;</span>
-data_model[data_model<span class="op">$</span>p<span class="op">==</span><span class="dv">0</span>,]<span class="op">$</span>p &lt;-<span class="st"> &quot;B&quot;</span>
+<p>The plot shows that when the trait <span class="math inline">\(A\)</span> reaches fixation there are in general more high-status individuals with trait <span class="math inline">\(A\)</span> at the beginning, and vice versa for <span class="math inline">\(B\)</span>, confirming our intuition. However, this is far from being a safe bet. Runs with only a quarter of high-status individuals with <span class="math inline">\(A\)</span> ended up with all <span class="math inline">\(A\)</span>s in the population and, conversely, runs with <span class="math inline">\(80%\)</span> of high-status individuals with <span class="math inline">\(A\)</span> ended up with the fixation of <span class="math inline">\(B\)</span>. With bigger populations, it is even worst.</p>
+<div class="sourceCode"><pre class="sourceCode r"><code class="sourceCode r">data_model &lt;-<span class="st"> </span><span class="kw">biased_transmission_demonstrator_2</span>(<span class="dt">N =</span> <span class="dv">10000</span>, <span class="dt">p_s =</span> <span class="fl">0.005</span>, <span class="dt">p_low=</span><span class="fl">0.0001</span>, <span class="dt">p_0 =</span> <span class="fl">0.5</span>, <span class="dt">t_max =</span> <span class="dv">200</span>, <span class="dt">r_max =</span> <span class="dv">50</span>)
 
-<span class="kw">ggplot</span>(<span class="dt">data =</span> data_model, <span class="kw">aes</span>( <span class="dt">x =</span> p, <span class="dt">y =</span> status_A)) <span class="op">+</span>
+data_model &lt;-<span class="st"> </span><span class="kw">filter</span>(data_model, p <span class="op">==</span><span class="st"> </span><span class="dv">1</span> <span class="op">|</span><span class="st"> </span>p <span class="op">==</span><span class="st"> </span><span class="dv">0</span>)
+data_model[data_model<span class="op">$</span>p<span class="op">==</span><span class="dv">1</span>, ]<span class="op">$</span>p &lt;-<span class="st"> &quot;A&quot;</span>
+data_model[data_model<span class="op">$</span>p<span class="op">==</span><span class="dv">0</span>, ]<span class="op">$</span>p &lt;-<span class="st"> &quot;B&quot;</span>
+
+<span class="kw">ggplot</span>(<span class="dt">data =</span> data_model, <span class="kw">aes</span>(<span class="dt">x =</span> p, <span class="dt">y =</span> status_A, <span class="dt">fill =</span> p)) <span class="op">+</span>
 <span class="st">  </span><span class="kw">geom_boxplot</span>() <span class="op">+</span>
-<span class="st">  </span><span class="kw">geom_jitter</span>(<span class="dt">width=</span><span class="fl">0.05</span>, <span class="dt">alpha=</span><span class="fl">0.5</span>) <span class="op">+</span>
+<span class="st">  </span><span class="kw">geom_jitter</span>(<span class="dt">width =</span> <span class="fl">0.05</span>) <span class="op">+</span>
 <span class="st">  </span><span class="kw">labs</span>(<span class="dt">y =</span> <span class="st">&quot;proportion of high-status individuals with trait A&quot;</span>, 
        <span class="dt">x =</span> <span class="st">&quot;winning trait&quot;</span>) <span class="op">+</span>
-<span class="st">  </span><span class="kw">theme_bw</span>()</code></pre></div>
-<p><img src="_main_files/figure-html/5.13-1.png" width="672" /></p>
+<span class="st">  </span><span class="kw">ylim</span>(<span class="kw">c</span>(<span class="dv">0</span>,<span class="dv">1</span>)) <span class="op">+</span>
+<span class="st">  </span><span class="kw">theme_bw</span>() <span class="op">+</span>
+<span class="st">  </span><span class="kw">theme</span>(<span class="dt">legend.position =</span> <span class="st">&quot;none&quot;</span>) </code></pre></div>
+<p><img src="_main_files/figure-html/5.12-1.png" width="672" /></p>
+<p>With <span class="math inline">\(N=10000\)</span> and around 50 high-status individuals, the traits are more equally distributed among ‘influential’ demonstrators at the beginning, and there is hardly any difference in the two outcomes.</p>
 <hr />
 </div>
 <div id="summary-of-the-model-4" class="section level2">
-<h2><span class="header-section-number">5.3</span> Summary of the model</h2>
+<h2><span class="header-section-number">4.3</span> Summary of the model</h2>
+<p>In this chapter we modeled an example of indirect, demonstrator-based, biased transmission. We assumed that a fraction of individuals in the population was ‘high-status’ and thus more likely to be selected as demonstrators. The results show that in this situation a trait is likely to become predominant even when populations are large. This is due to the fact that a demonstrator bias effectively works reducing the pool of demonstrators and accelerating convergence. We also saw that the possibility of predicting which trait will become predominant depends on the number of high-status demonstrators. When there are few of them is likely that the trait that they posses in majority will go to fixation, but when their number increase, it is more difficult to make prediction.</p>
+<p>We also saw how it is important to modify the output of a model depending on the question we are interested in, and we used for the first time ggplot to produce boxplot, a convenient way of displaying the distribution of data along different groups.</p>
+<hr />
+</div>
+<div id="analytical-appendix-3" class="section level2">
+<h2><span class="header-section-number">4.4</span> Analytical appendix</h2>
+<p>IS THERE ANYHTIHG WE CAN DO HERE?</p>
+<hr />
+</div>
+<div id="further-readings" class="section level2">
+<h2><span class="header-section-number">4.5</span> Further readings</h2>
 
 </div>
 </div>
